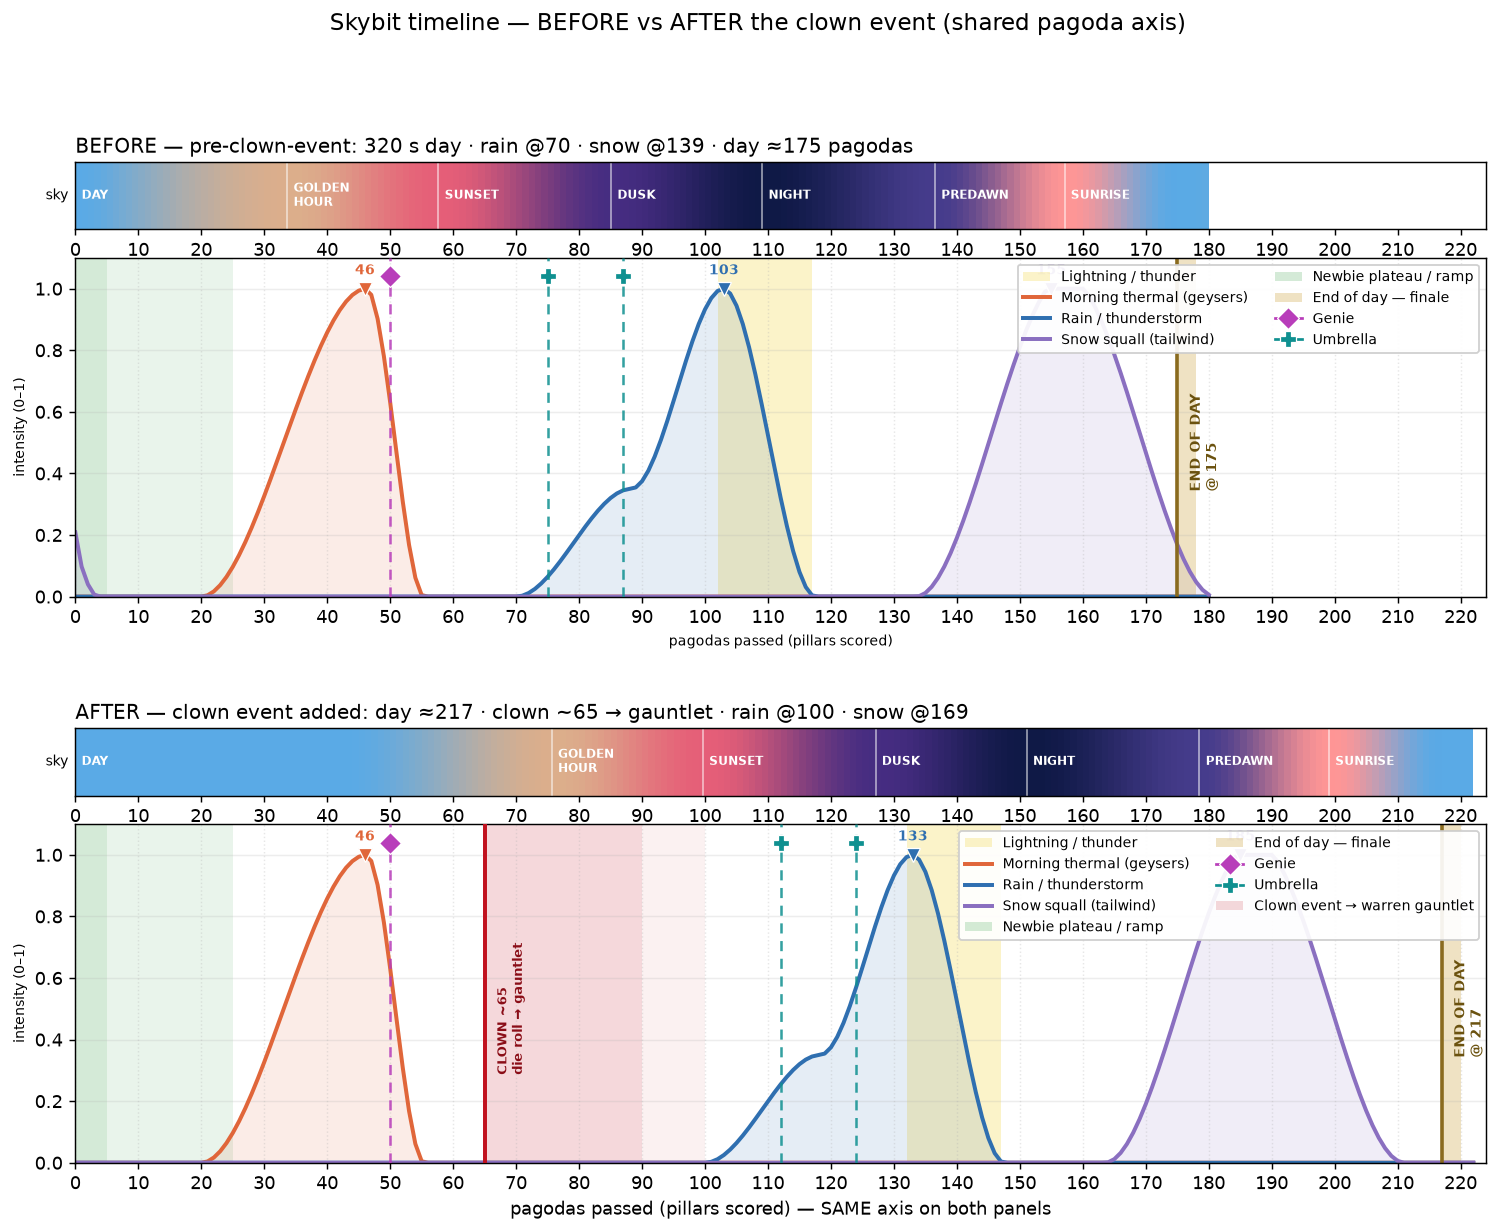
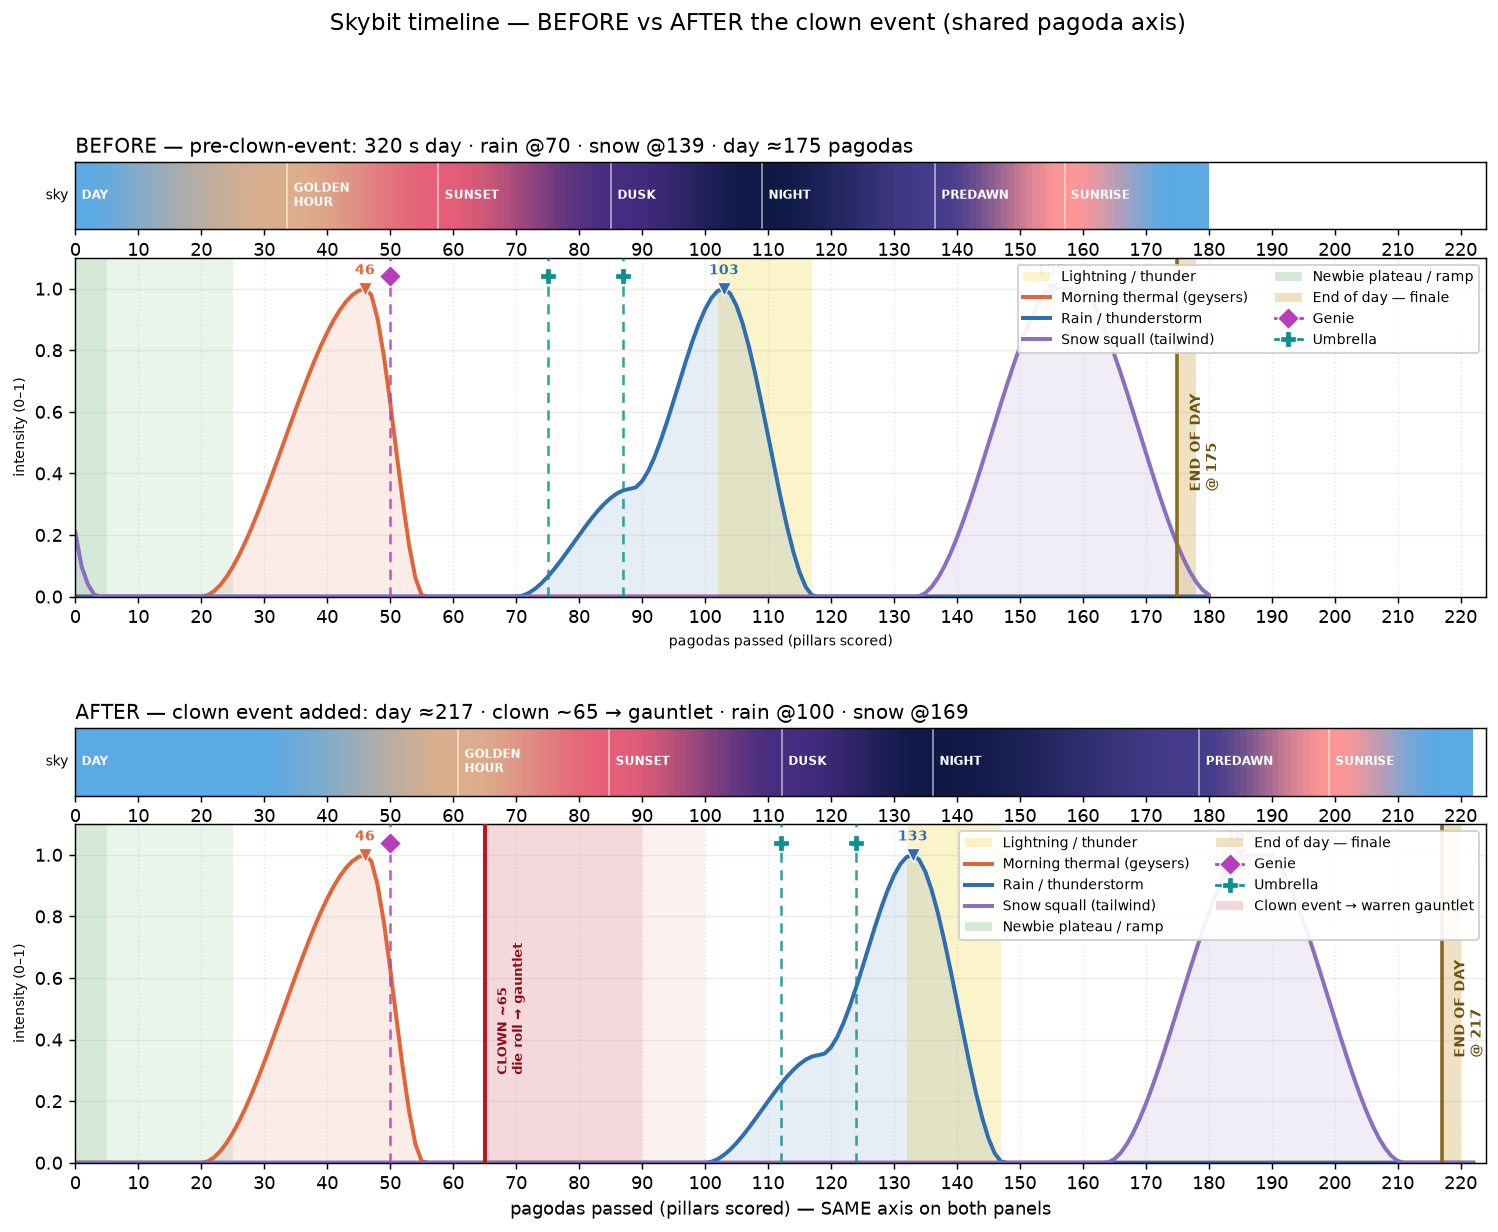
Start the sky transition earlier by trimming day into night
The sky held solid daytime until ~pillar 42 (golden hour at ~76), so the
many runs that end early never saw it change. Trim ~15 pillars of duration
off the day and hand the same to the night: shift GOLDEN..NIGHT earlier by
NIGHT_BORROW_SECONDS (PREDAWN/SUNRISE/wrap fixed, so the predawn snow squall
and day-end finale keep their pillars) and shorten the solid-day hold. The
sky now leaves daytime by ~pillar 27 and the night runs ~15 pillars longer,
with the total cycle unchanged.

Claude-Session: https://claude.ai/code/session_01R8Xv9wnQCdkf5ozFZzZReZ

Changed region(s): [[0.1842, 0.586, 0.6449, 0.6477], [0.6756, 0.586, 0.737, 0.6477]]

diff --git a/game/biome.py b/game/biome.py
@@ -194,10 +194,20 @@ _KEYFRAME_NAMES = ["DAY", "GOLDEN HOUR", "SUNSET", "DUSK", "NIGHT",
 # Fraction of the (possibly extended) DAY span to hold at SOLID daytime before
 # the golden-hour fade begins. Without this, a single DAY→GOLDEN smoothstep
 # spans the whole — now much longer — day, so the sky drifts toward amber from
-# the very start and daytime never reads as dominant. Holding day for most of
-# the span and compressing the fade into the tail keeps DAY dominant while the
-# transition stays smooth. Only applied when the day is extended.
-DAY_HOLD_FRAC = 0.60
+# the very start. We deliberately keep this hold SHORT so the fade is already
+# reading on screen within the first ~25-30 pillars: most runs end early, and a
+# 60% hold left the sky frozen on solid blue until ~pillar 42. Only applied when
+# the day is extended. Pairs with NIGHT_BORROW_SECONDS below, which trims the
+# same daytime length and hands it to the night.
+DAY_HOLD_FRAC = 0.51
+
+# Seconds trimmed off the GOLDEN..NIGHT keyframes and handed to the
+# NIGHT→PREDAWN span: an EQUAL swap that pulls the whole evening earlier (so the
+# sky starts changing sooner) and makes the night correspondingly longer,
+# WITHOUT changing the total cycle. PREDAWN/SUNRISE stay put, so the predawn
+# snow squall and the day-end finale keep their pillars. ~26s ≈ 15 early pillars.
+# Only meaningful while the day is extended.
+NIGHT_BORROW_SECONDS = 26.0
 
 _BASE_CYCLE_SECONDS = 320.0
 from game.config import DAY_EXTRA_SECONDS as _DAY_EXTRA
@@ -205,12 +215,20 @@ CYCLE_SECONDS = _BASE_CYCLE_SECONDS + _DAY_EXTRA
 
 if _DAY_EXTRA:
     _last = len(_KEYFRAMES) - 1
-    _KEYFRAMES[:] = [
-        (frac if i == 0 else
-         1.0 if i == _last else
-         (frac * _BASE_CYCLE_SECONDS + _DAY_EXTRA) / CYCLE_SECONDS, pal)
-        for i, (frac, pal) in enumerate(_KEYFRAMES)
-    ]
+
+    def _remap(i, frac):
+        # DAY pinned to 0, wrap pinned to 1. The evening block (GOLDEN..NIGHT,
+        # indices 1-4) is pulled earlier by the borrow; PREDAWN/SUNRISE keep the
+        # full DAY_EXTRA shift, so the gap they leave behind lengthens the night.
+        if i == 0:
+            return 0.0
+        if i == _last:
+            return 1.0
+        extra = _DAY_EXTRA - (NIGHT_BORROW_SECONDS if 1 <= i <= 4 else 0.0)
+        return (frac * _BASE_CYCLE_SECONDS + extra) / CYCLE_SECONDS
+
+    _KEYFRAMES[:] = [(_remap(i, frac), pal)
+                     for i, (frac, pal) in enumerate(_KEYFRAMES)]
     # Hold solid DAY for DAY_HOLD_FRAC of the day span, then fade to golden over
     # the remainder — a DAY-coloured keyframe inserted just before golden hour.
     _golden_phase = _KEYFRAMES[1][0]
